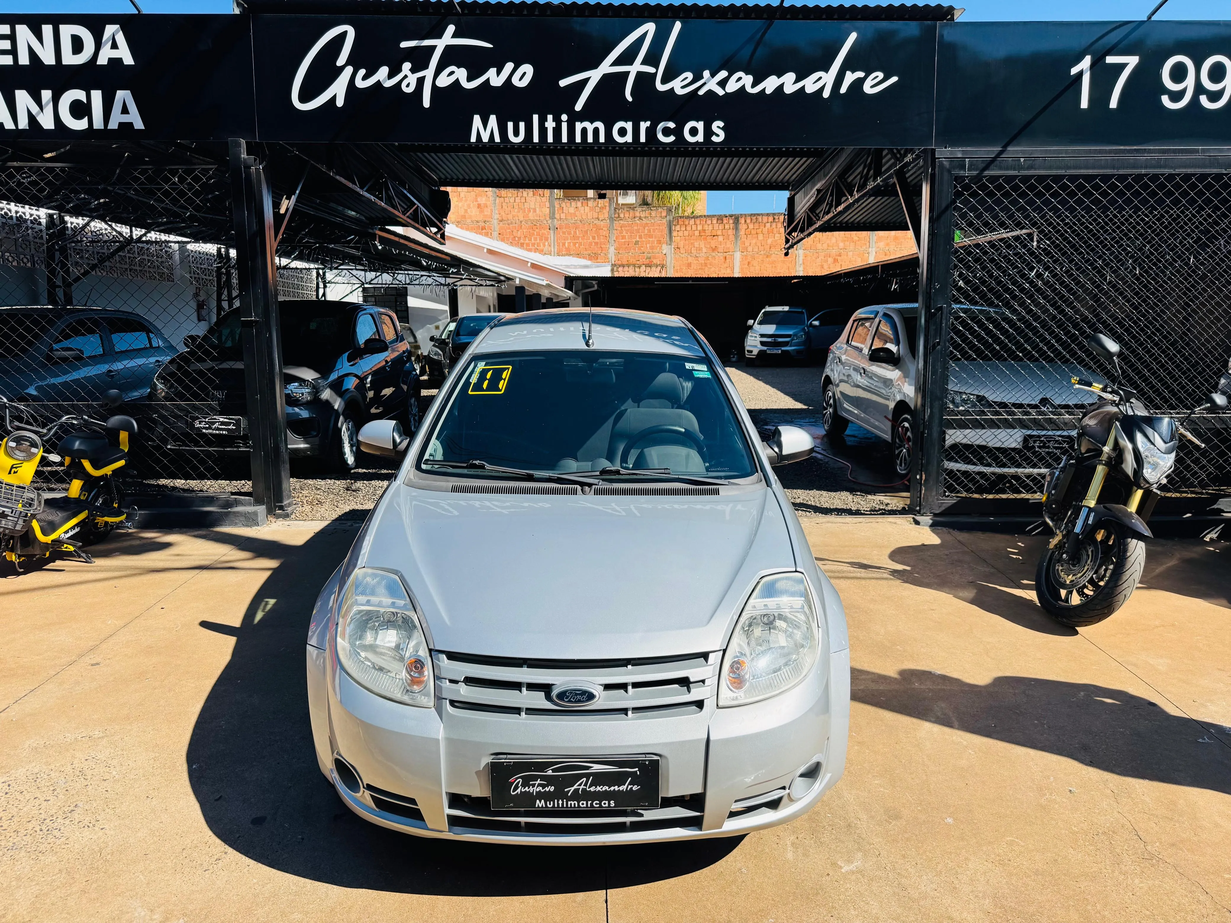
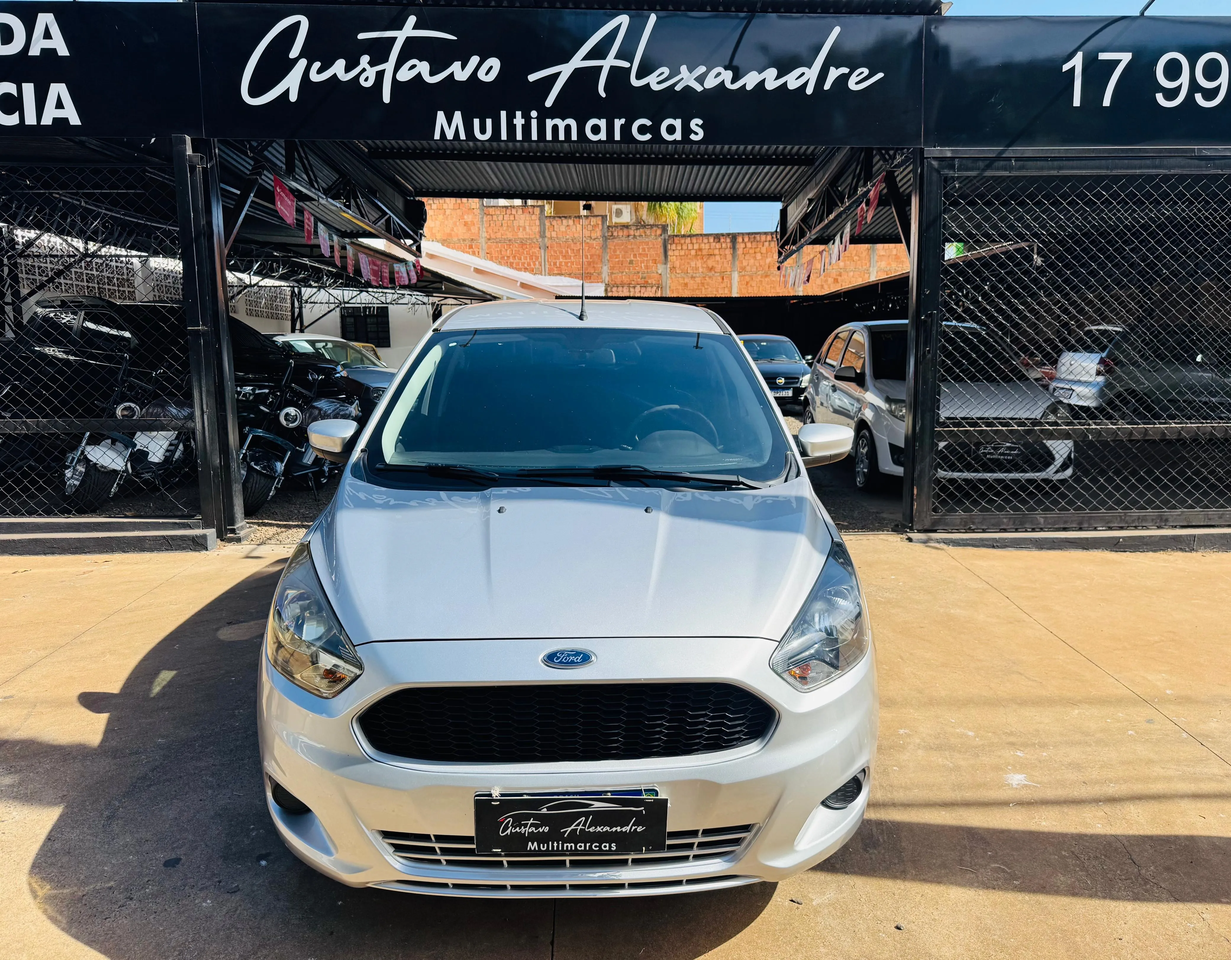
diversos

diff --git a/data/vehicles.ts b/data/vehicles.ts
@@ -516,5 +516,43 @@ export const vehicles = [
     "/images/chevrolet-astra-prata/08.webp",
     "/images/chevrolet-astra-prata/09.webp"
   ]
+}, 
+{
+  id: 15,
+  name: "Ford Ka 1.0",
+  brand: "Ford",
+  price: "R$ 44.900,00",
+  year: "2018",
+  fuel: "Flex",
+  transmission: "Manual",
+  km: "149.000 KM",
+  color: "Prata",
+  doors: "5",
+  badge: "Seminovo",
+  description: "Ford Ka 1.0 2018, com 149.000 KM, motor Flex e câmbio manual. Compacto econômico com direção elétrica e ar-condicionado, ideal para o dia a dia. Conta com airbag, freios ABS, ar quente, limpador traseiro, travas e vidros elétricos, além de porta-malas elétrico com capacidade de 250 litros. Um seminovo prático, confortável e seguro para rodar na cidade ou estrada.",
+  spotlight: false,
+  available: true,
+  features: [
+    "Direção elétrica",
+    "Ar condicionado",
+    "Airbag",
+    "Ar quente",
+    "Freio ABS",
+    "Limpador traseiro",
+    "Travas elétricas",
+    "Vidros elétricos",
+    "Porta-malas elétrico"
+  ],
+  images: [
+    "/images/ford-ka-prata/01.webp",
+    "/images/ford-ka-prata/02.webp",
+    "/images/ford-ka-prata/03.webp",
+    "/images/ford-ka-prata/04.webp",
+    "/images/ford-ka-prata/05.webp",
+    "/images/ford-ka-prata/06.webp",
+    "/images/ford-ka-prata/07.webp",
+    "/images/ford-ka-prata/08.webp",
+    "/images/ford-ka-prata/09.webp"
+  ]
 }
 ]
